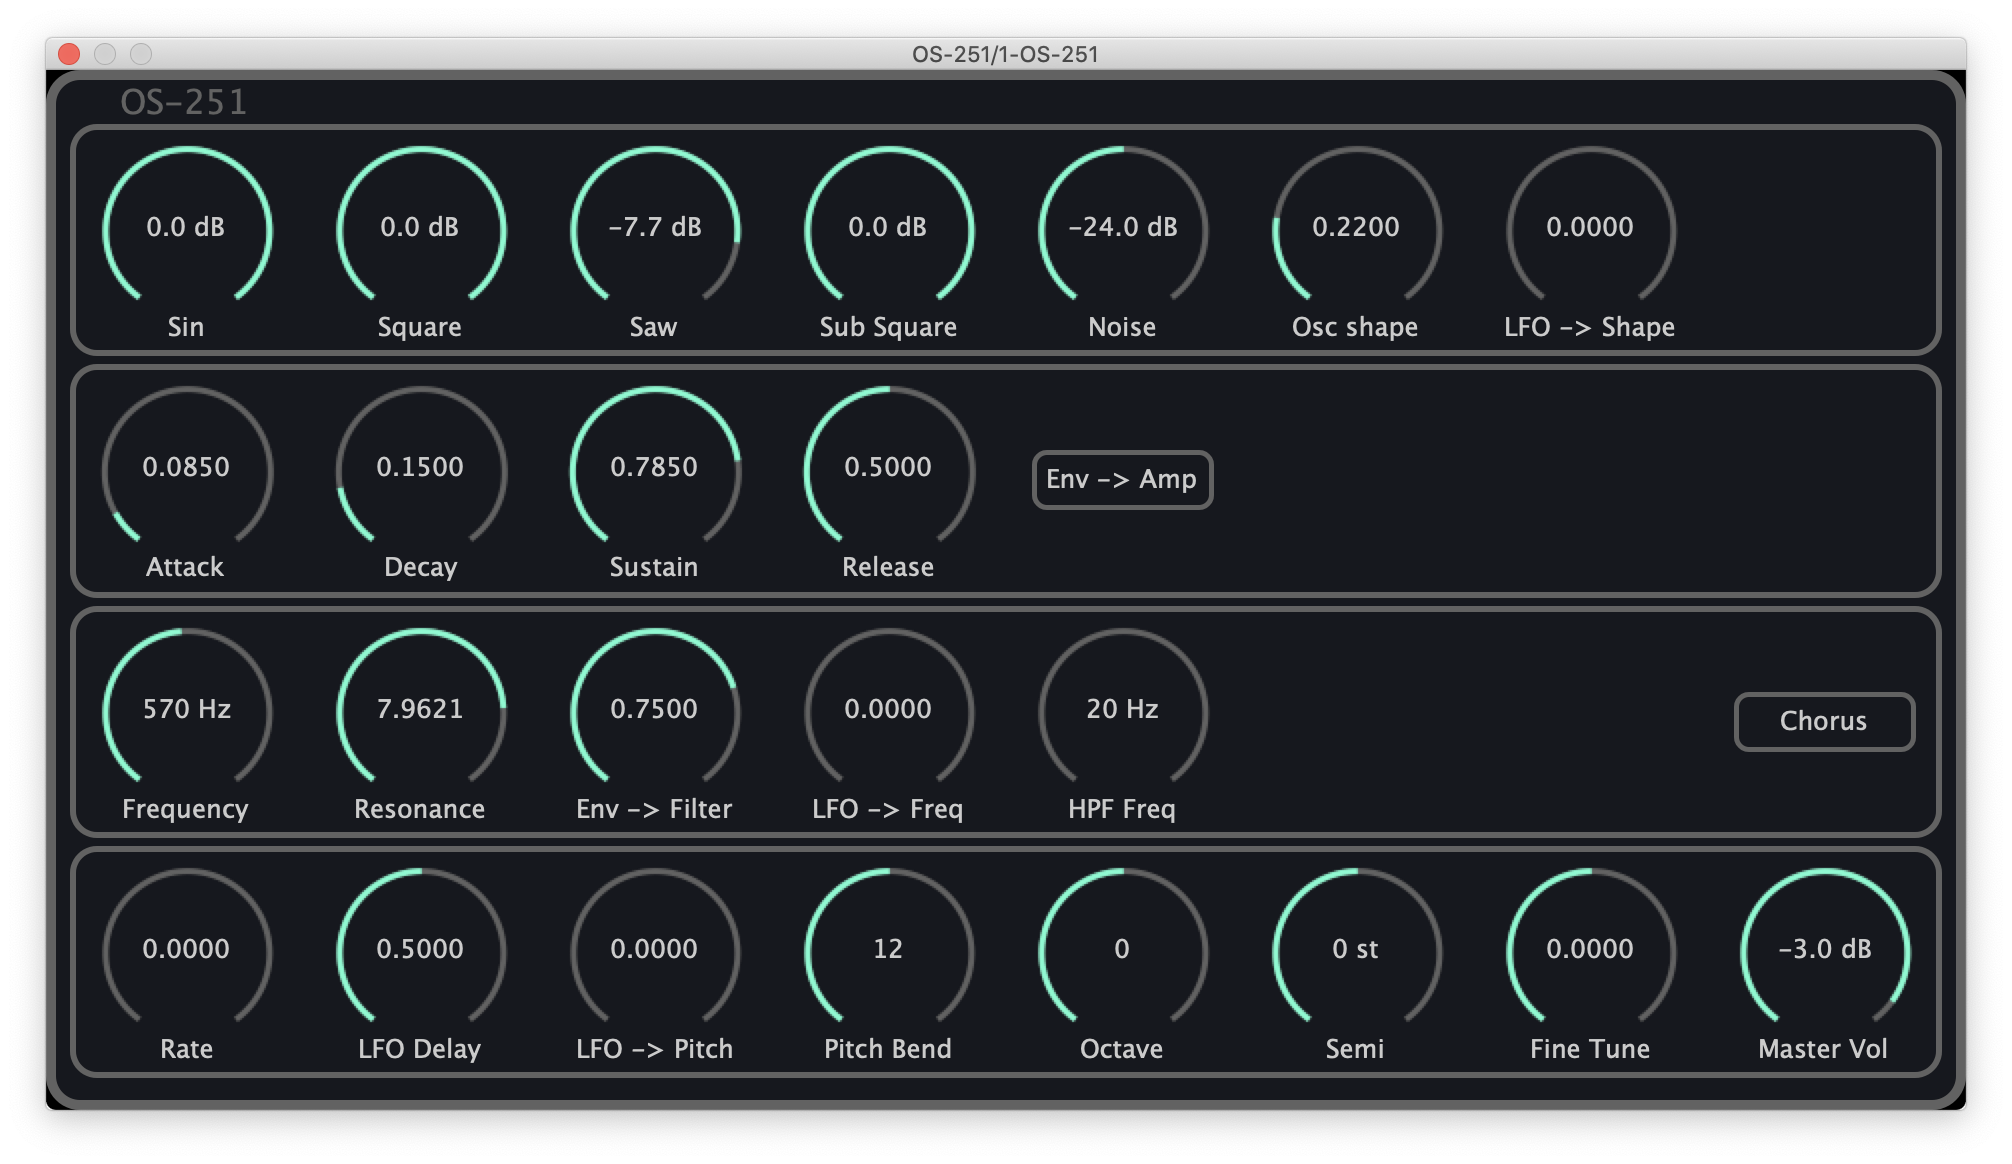
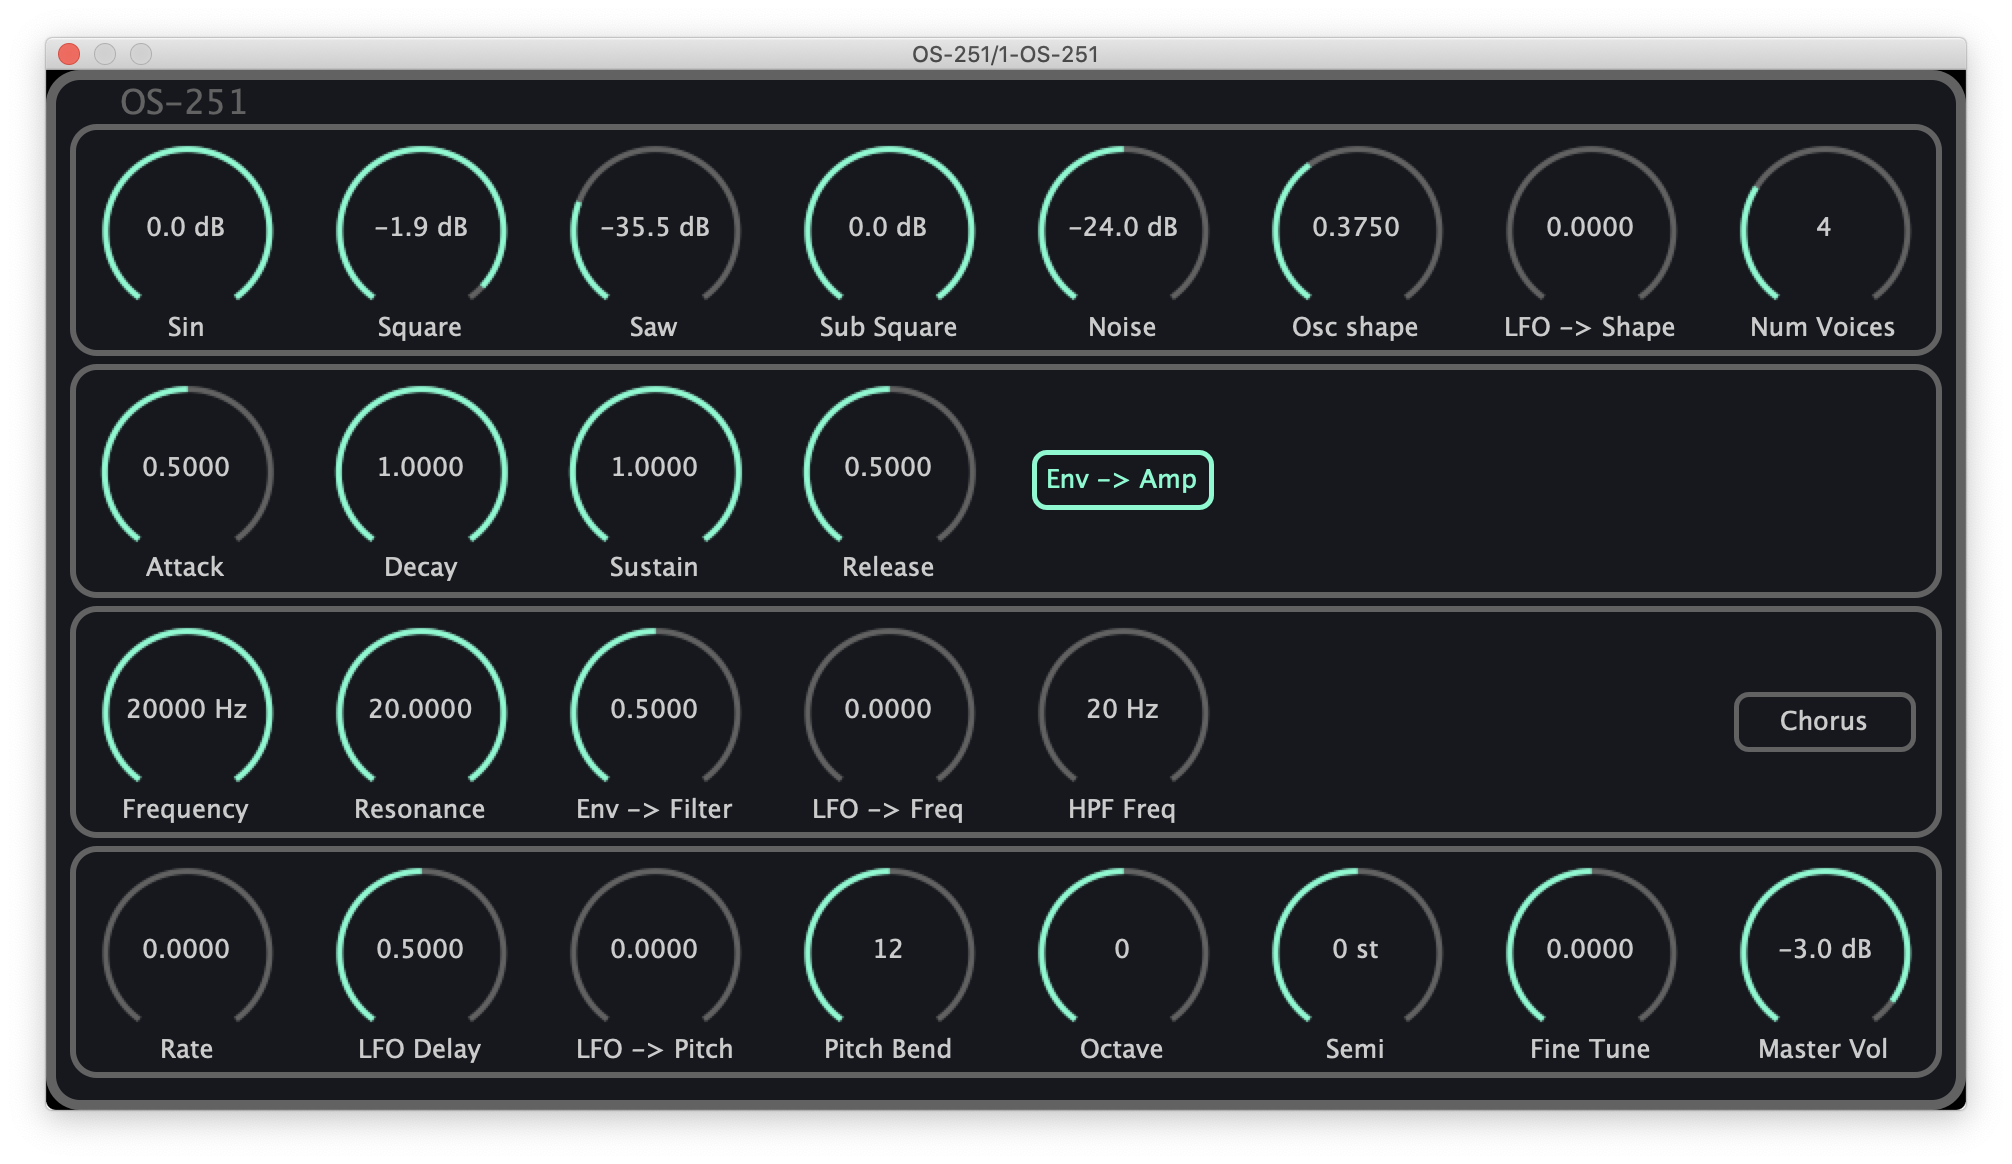
Allow to change number of voices

diff --git a/src/jsui/src/App.js b/src/jsui/src/App.js
@@ -136,7 +136,10 @@ class App extends Component {
               paramId="lfoShape"
               paramLabel="LFO -> Shape"
             />
-            <DummyModule />
+            <SliderModule
+              paramId="numVoices"
+              paramLabel="Num Voices"
+            />
           </View>
           <View {...styles.param_row}>
             <SliderModule

diff --git a/src/PluginProcessor.cpp b/src/PluginProcessor.cpp
@@ -67,6 +67,10 @@ Os251AudioProcessor::Os251AudioProcessor()
                                                                          onsen::DspUtil::paramValToDecibel (value, onsen::MasterParams::dynamicRange), numGainDecimal)
                                                                      + juce::String (" dB"); };
 
+    // Number of voices
+    auto numVoicesToStr = [] (float value) { return juce::String (
+                                                 onsen::DspUtil::mapFlnumToInt (
+                                                     value, 0.0, 1.0, 1, onsen::MasterParams::maxNumVoices)); };
     // ---
 
     // ---
@@ -223,6 +227,14 @@ Os251AudioProcessor::Os251AudioProcessor()
     parameters.addParameterListener ("masterVolume", this);
 
     // ---
+
+    // Parameters used with callback
+
+    // Number of voices
+    // TODO: We need a smarter way to set the initial value.
+    constexpr float defaultFlnumNumVoices = 0.3; // The number will be converted to 4. OS-251 has 4 voices as default.
+    parameters.createAndAddParameter (std::make_unique<Parameter> ("numVoices", "Num Voices", "", nrange, defaultFlnumNumVoices, numVoicesToStr, nullptr, true));
+    parameters.addParameterListener ("numVoices", this);
 
     parameters.state = juce::ValueTree (juce::Identifier ("OS-251"));
 }
@@ -412,6 +424,12 @@ void Os251AudioProcessor::parameterChanged (const juce::String& parameterID, flo
     chorusParams->parameterChanged();
     hpfParams->parameterChanged();
     master->parameterChanged();
+
+    if (parameterID == "numVoices")
+    {
+        const int num = onsen::DspUtil::mapFlnumToInt (newValue, 0.0, 1.0, 1, onsen::MasterParams::maxNumVoices);
+        synthEngine.changeNumberOfVoices(num);
+    }
 }
 
 //==============================================================================

diff --git a/src/SynthEngine.h b/src/SynthEngine.h
@@ -89,10 +89,37 @@ public:
         synth.renderNextBlock (outputAudio, inputMidi, startSample, numSamples);
     }
 
+    void changeNumberOfVoices (int num)
+    {
+        int numVoices = synth.getNumVoices();
+        if (num == numVoices)
+            return;
+        if (num > numVoices)
+            addNumberOfVoices (num - numVoices);
+        else
+            subNumberOfVoices (numVoices - num);
+        
+        assert(num == synth.getNumVoices());
+    }
+
 private:
     SynthParams* const synthParams;
     Lfo lfo;
     FancySynth synth;
     juce::MidiMessageCollector midiCollector;
+
+    void addNumberOfVoices (int num)
+    {
+        for (auto i = 0; i < num; ++i)
+            synth.addVoice (new FancySynthVoice (synthParams, &lfo));
+    }
+
+    void subNumberOfVoices (int num)
+    {
+        int numVoices = synth.getNumVoices();
+        assert (numVoices >= num);
+        for (auto i = 0; i < num; ++i)
+            synth.removeVoice (numVoices - 1 - i);
+    }
 };
 } // namespace onsen

diff --git a/src/params/MasterParams.h b/src/params/MasterParams.h
@@ -18,8 +18,9 @@ class MasterParams
 public:
     static constexpr int maxPitchBendWidth = 24; // unit is [semitone] or [st]
     static constexpr int dynamicRange = 48;
-    static const int maxOctaveTuneVal = 3; // unit is [octave]
-    static const int maxSemitoneTuneVal = 12; // unit is [semitone] or [st]
+    static constexpr int maxOctaveTuneVal = 3; // unit is [octave]
+    static constexpr int maxSemitoneTuneVal = 12; // unit is [semitone] or [st]
+    static constexpr int maxNumVoices = 10; 
 
     //==============================================================================
     bool getEnvForAmpOn() const

diff --git a/README.md b/README.md
@@ -24,7 +24,7 @@ This plugin is currently under development.
   Maybe "Sync ON" button and "Phase" knob will be added.
 - [ ] (Optional) Tempo LFO re-triggered by MIDI notes ("retring").
   Maybe "Tempo ON" button and "Phase" knob will be added.
-- [ ] Allow to change number of voices
+- [x] Allow to change number of voices
 - [ ] Unison
 - [ ] Portamento
 - [x] "ENV or GATE" switch for VCA
